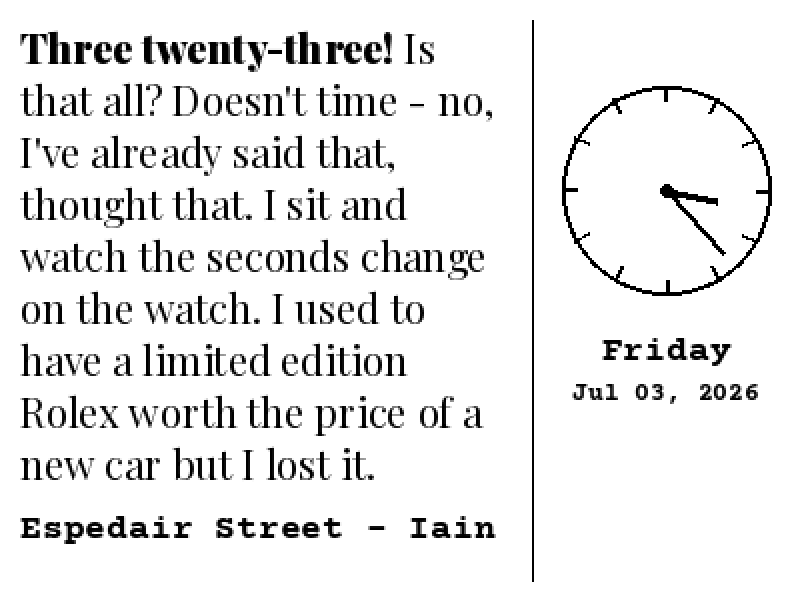
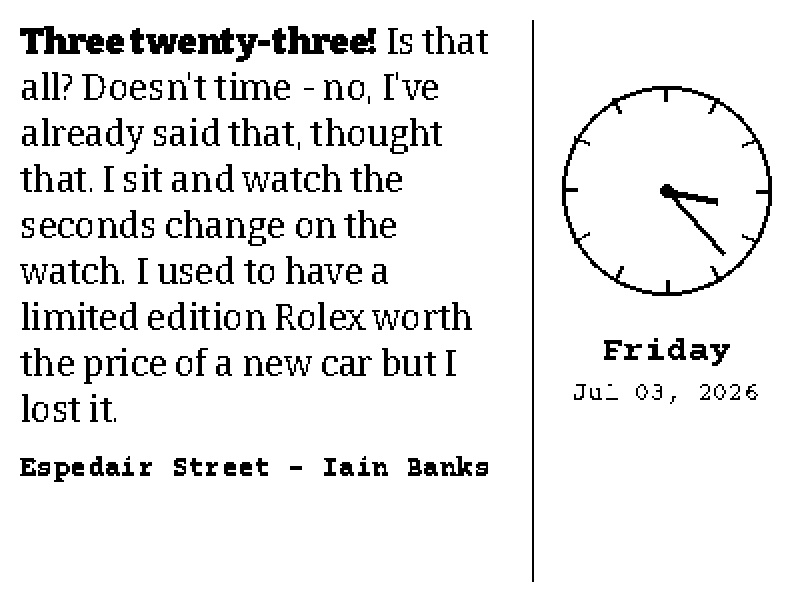
Switch quote font to Bitter for crisp 1-bit e-ink rendering (Playfair hairlines fragmented); update preview, README, license

diff --git a/literary_clock.py b/literary_clock.py
@@ -40,7 +40,11 @@ RIGHT_X = LEFT_W
 # ── Font locations ─────────────────────────────────────────────────────────────
 _HERE = os.path.dirname(os.path.abspath(__file__))
 FONT_DIR = os.path.join(_HERE, "fonts")
-F_QUOTE = os.path.join(FONT_DIR, "PlayfairDisplay.ttf")   # variable weight axis
+# Bitter (slab serif) is used for the quote: its even, sturdy stroke weight
+# stays crisp on the 1-bit (pure black/white, no anti-aliasing) e-ink panel,
+# unlike a high-contrast serif whose hairline strokes fragment. Courier Prime
+# (a distinct typewriter face) is kept for the attribution, weekday, and date.
+F_QUOTE = os.path.join(FONT_DIR, "Bitter.ttf")            # variable weight axis
 F_ATTRIB = os.path.join(FONT_DIR, "CourierPrime.ttf")
 F_ATTRIB_BOLD = os.path.join(FONT_DIR, "CourierPrime-Bold.ttf")
 

diff --git a/README.md b/README.md
@@ -12,7 +12,7 @@ glance, the **book and author** appear below in a contrasting typeface, and a
 
 ![Literary Clock 2026 Edition preview — a book quote with the time phrase "Three twenty-three!" in bold on the left, and a two-hand analog clock with the weekday and date on the right](docs/preview.png)
 
-*Rendered at 2× scale of the native 400 × 300 panel. Quote set in Playfair Display with the time phrase bolded; attribution and date set in Courier Prime.*
+*Shown at 2× scale of the native 400 × 300 panel, rendered in true 1-bit black & white as the e-ink display shows it. Quote set in Bitter with the time phrase bolded; attribution and date set in Courier Prime.*
 
 This project takes the idea from
 [zenbuffy/LiteraryClock](https://github.com/zenbuffy/LiteraryClock) and
@@ -22,7 +22,7 @@ and rebuilds the presentation layer:
 - **Split layout** — the quote occupies the left 2/3; a clock + date occupies the right 1/3.
 - **Live rendering** — frames are drawn on the fly each minute (no pre-generated image library to build or store).
 - **Bolded time phrase** — the words that spell out the current time stand out in heavy weight.
-- **Typographic contrast** — quote set in **Playfair Display**, attribution/date set in **Courier Prime**.
+- **Typographic contrast** — quote set in **Bitter** (a slab serif chosen because its even stroke weight stays crisp on 1-bit e-ink), attribution/date set in **Courier Prime**.
 - **Two-hand analog clock** — a clean face (tick marks, no numbers) showing the current time, with the weekday and full date beneath it.
 - **Auto-fit** — quote text scales to fit; long attributions wrap to a second line.
 
@@ -38,7 +38,7 @@ literary-clock-2026-edition/
 ├── literary_clock.py                 # rendering engine (produces a 400x300 PIL image)
 ├── litclock_annotated_improved.csv   # quotes: HH:MM|time phrase|quote|book|author
 ├── fonts/
-│   ├── PlayfairDisplay.ttf           # quote body + bold time phrase (variable weight)
+│   ├── Bitter.ttf                    # quote body + bold time phrase (variable weight)
 │   ├── CourierPrime.ttf              # attribution / date
 │   ├── CourierPrime-Bold.ttf         # weekday
 │   └── *-OFL.txt                     # font licenses (SIL OFL 1.1)